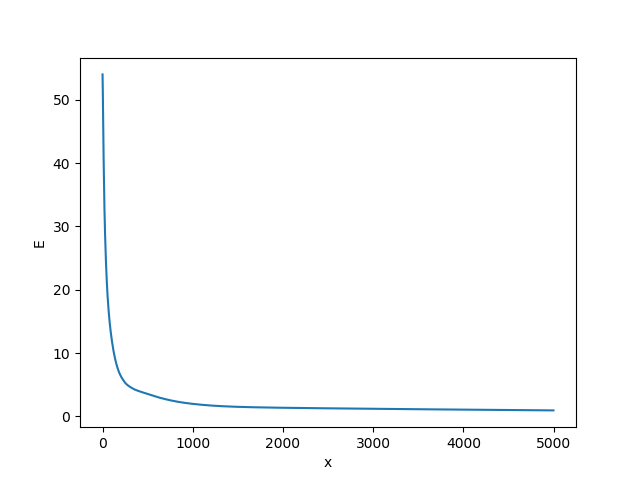
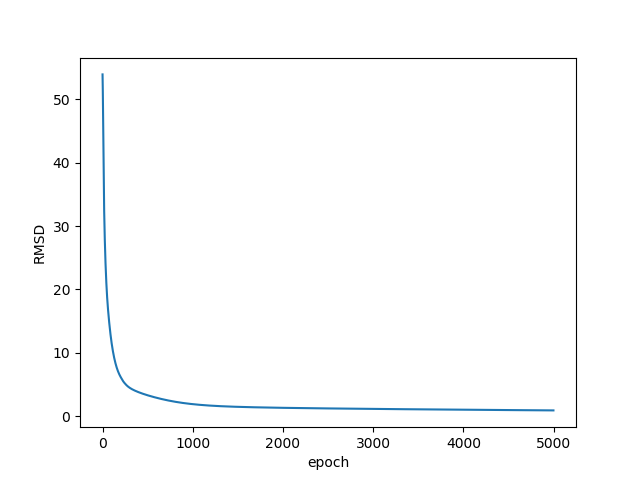
update fig

diff --git a/main.py b/main.py
@@ -74,8 +74,8 @@ if __name__ == "__main__":
 
     plt.figure()
     plt.plot(np.arange(0, len(error_ave), 1), error_ave)
-    plt.xlabel("x")
-    plt.ylabel("E")
+    plt.xlabel("epoch")
+    plt.ylabel("RMSD")
 
     ax3D_train = Axes3D(plt.figure())
     ax3D_train.scatter(x_array_train, y_array_train, outList, label = "Output", depthshade = False, marker = "x", color = "red")
